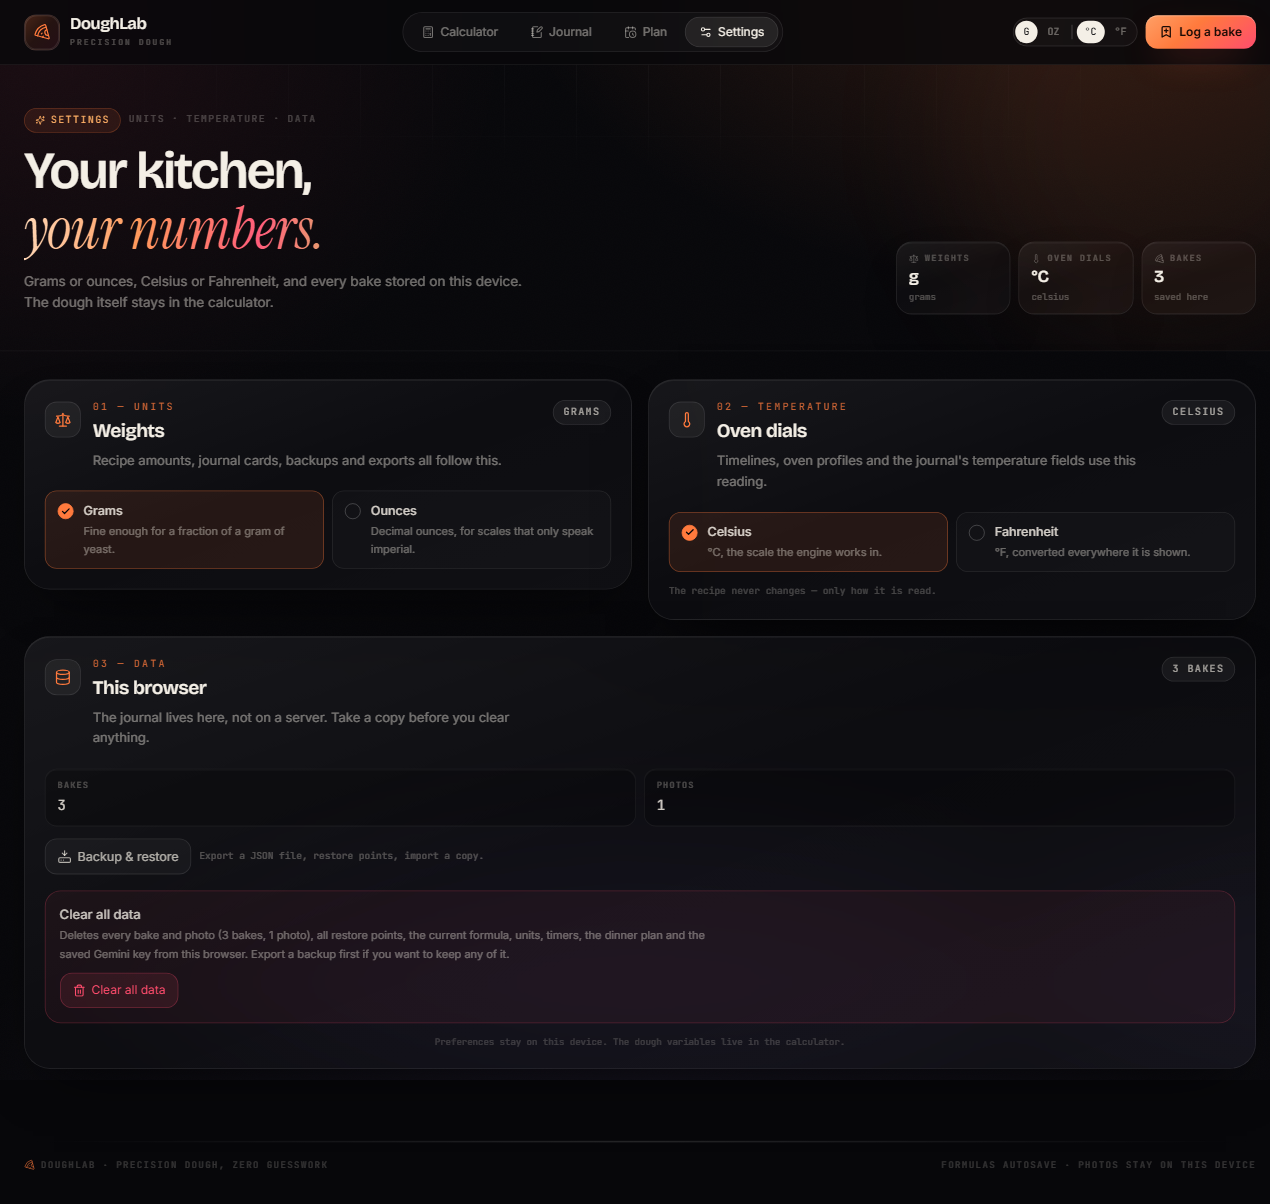
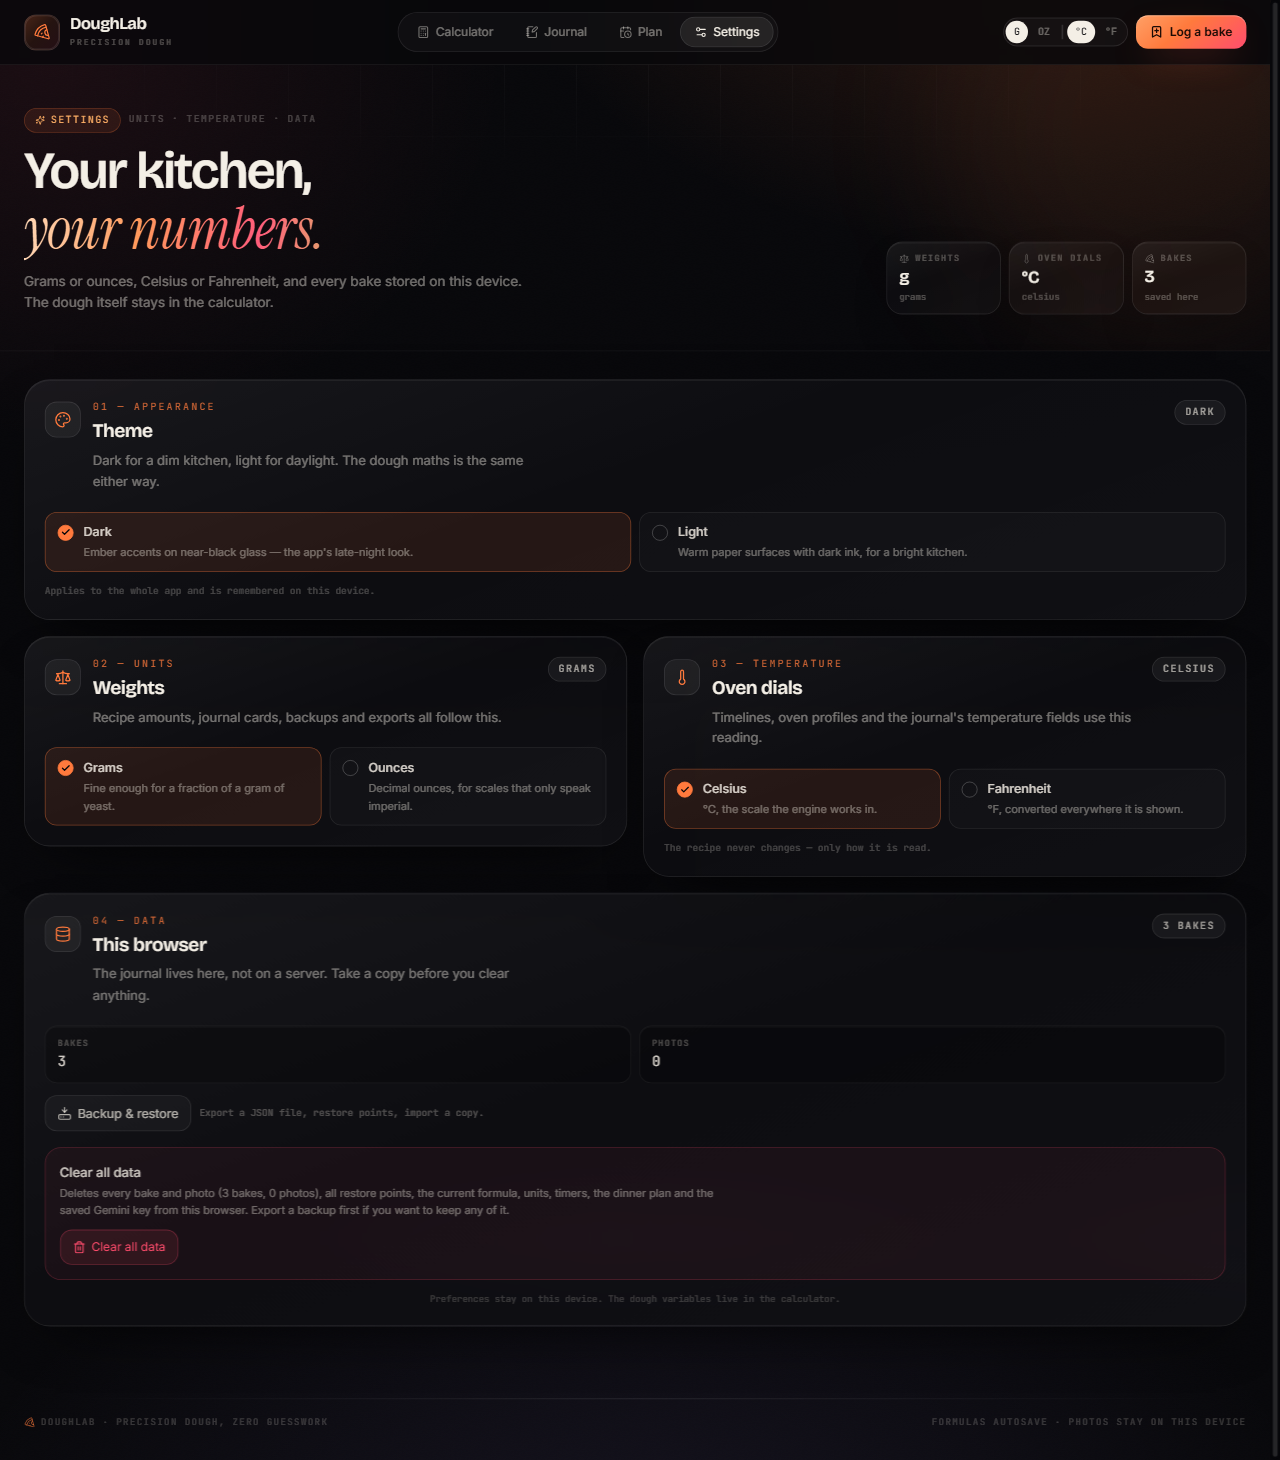
Show the theme switch in the Settings screenshots
Settings now leads with an Appearance card, so the README's Settings pair was
out of date. Both frames are recaptured with Dark and Light visible, and the
copy explains the choice in the beginner-facing sections.

🤖 Generated with Codebuff

diff --git a/README.md b/README.md
@@ -50,10 +50,12 @@ bar on a phone. The bakes in the journal are example entries, not someone's real
 
 | **Settings** | **Settings on a phone** |
 | --- | --- |
-| <a href="docs/screenshots/settings-desktop.png"><img src="docs/screenshots/settings-desktop.png" width="300" alt="The Settings tab on a desktop browser: the four-tab header, the Weights and Oven dials cards, and a This browser card with backup, bake counts and Clear all data"></a> | <a href="docs/screenshots/settings-phone.png"><img src="docs/screenshots/settings-phone.png" width="150" alt="Settings on a 390 px phone with the four-tab bottom bar: grams or ounces, Celsius or Fahrenheit, and the data card"></a> |
+| <a href="docs/screenshots/settings-desktop.png"><img src="docs/screenshots/settings-desktop.png" width="300" alt="The Settings tab on a desktop browser: the four-tab header, the Appearance card with its Dark and Light choices, the Weights and Oven dials cards, and a This browser card with backup, bake counts and Clear all data"></a> | <a href="docs/screenshots/settings-phone.png"><img src="docs/screenshots/settings-phone.png" width="150" alt="Settings on a 390 px phone with the four-tab bottom bar: the Appearance card offering Dark or Light, then grams or ounces"></a> |
 
-**Settings** gathers the units and oven dials, the backup and restore panel and **Clear all data** in one
-place, while every dough variable stays in the calculator.
+**Settings** gathers the theme, the units and oven dials, the backup and restore panel and
+**Clear all data** in one place, while every dough variable stays in the calculator. The **Appearance**
+card up top switches between **Dark** — the ember-on-black look in these screenshots — and **Light**, a
+warm paper version with black text for a bright kitchen. The choice is remembered on your device.
 
 ### What the main screens are for
 
@@ -62,13 +64,15 @@ place, while every dough variable stays in the calculator.
 | **Calculator** | Choose a style, set how much dough, adjust the recipe, read the weights and the timeline. |
 | **Journal** | Every bake you saved: ratings, photos, notes, comparisons, and **Insights** across them. |
 | **Plan** | Work backwards from a serve time: how much dough, when to start, oven order — plus a starter build with feed times and amounts. |
-| **Settings** | Grams or ounces, Celsius or Fahrenheit, backup and restore, and **Clear all data**. The dough variables stay in the calculator. |
+| **Settings** | Dark or light theme, grams or ounces, Celsius or Fahrenheit, backup and restore, and **Clear all data**. The dough variables stay in the calculator. |
 | **Bake Sommelier** (round button, bottom right) | Ask questions about your bakes; optionally attach a photo of one. |
 
 ### The only controls you need at first
 
 - **g / oz** and **°C / °F** switch units everywhere — in the header for a quick flip, or on the
   **Settings** tab. Nothing is converted or lost.
+- **Dark / light** sits on the **Settings** tab too. It only changes how the app looks — a dark kitchen
+  or a bright one — and the numbers never move.
 - **Sizing** has three modes. **Flour** → start from a bag of flour. **Dough balls** → number of
   pizzas and grams per ball. **Pan size** → the pan's length and width plus **dough per pan**, which
   is what actually sets the depth of a Detroit or focaccia bake.
